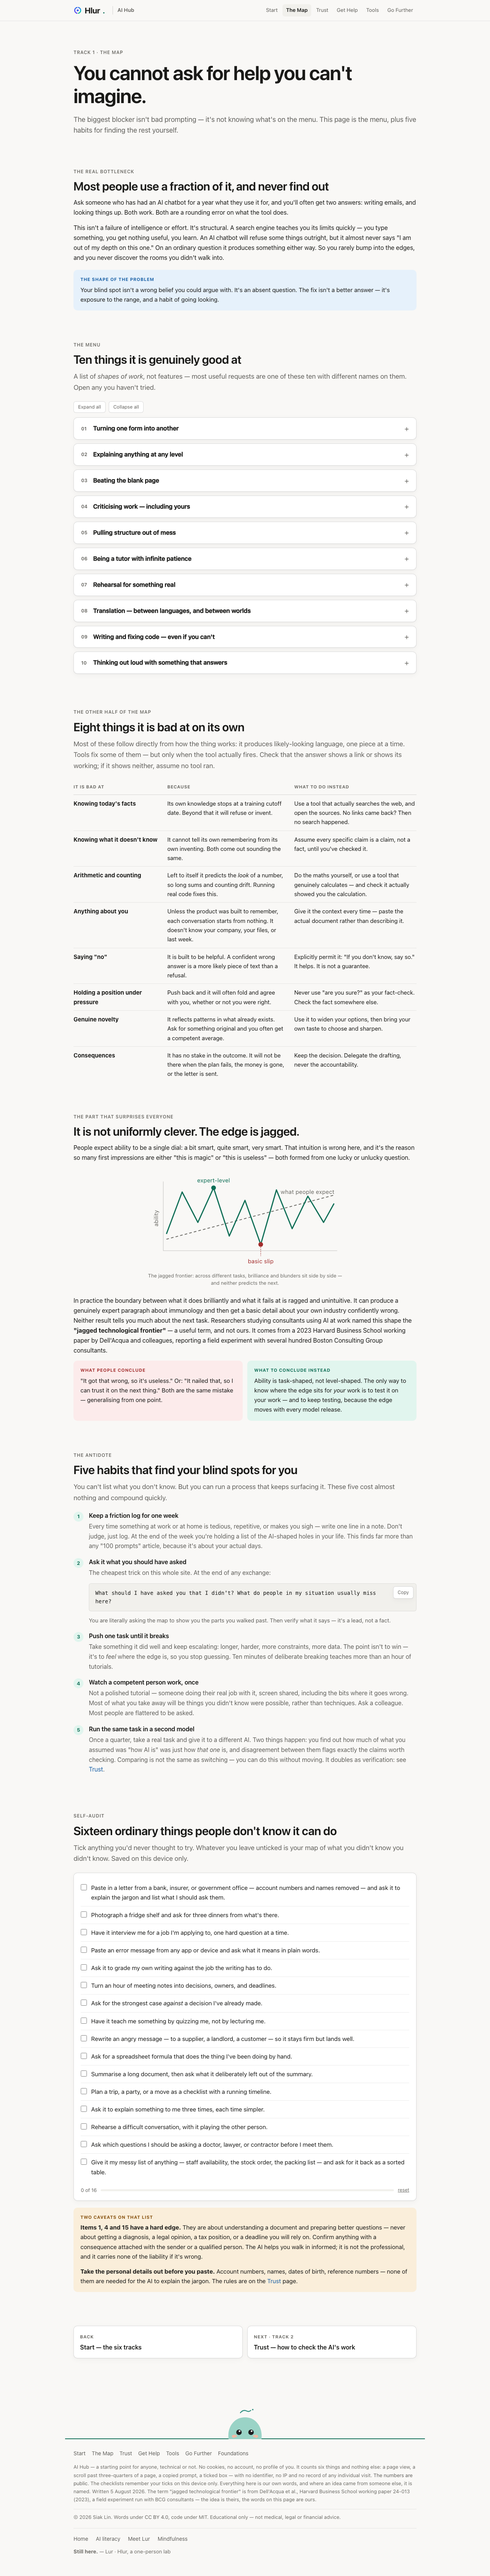
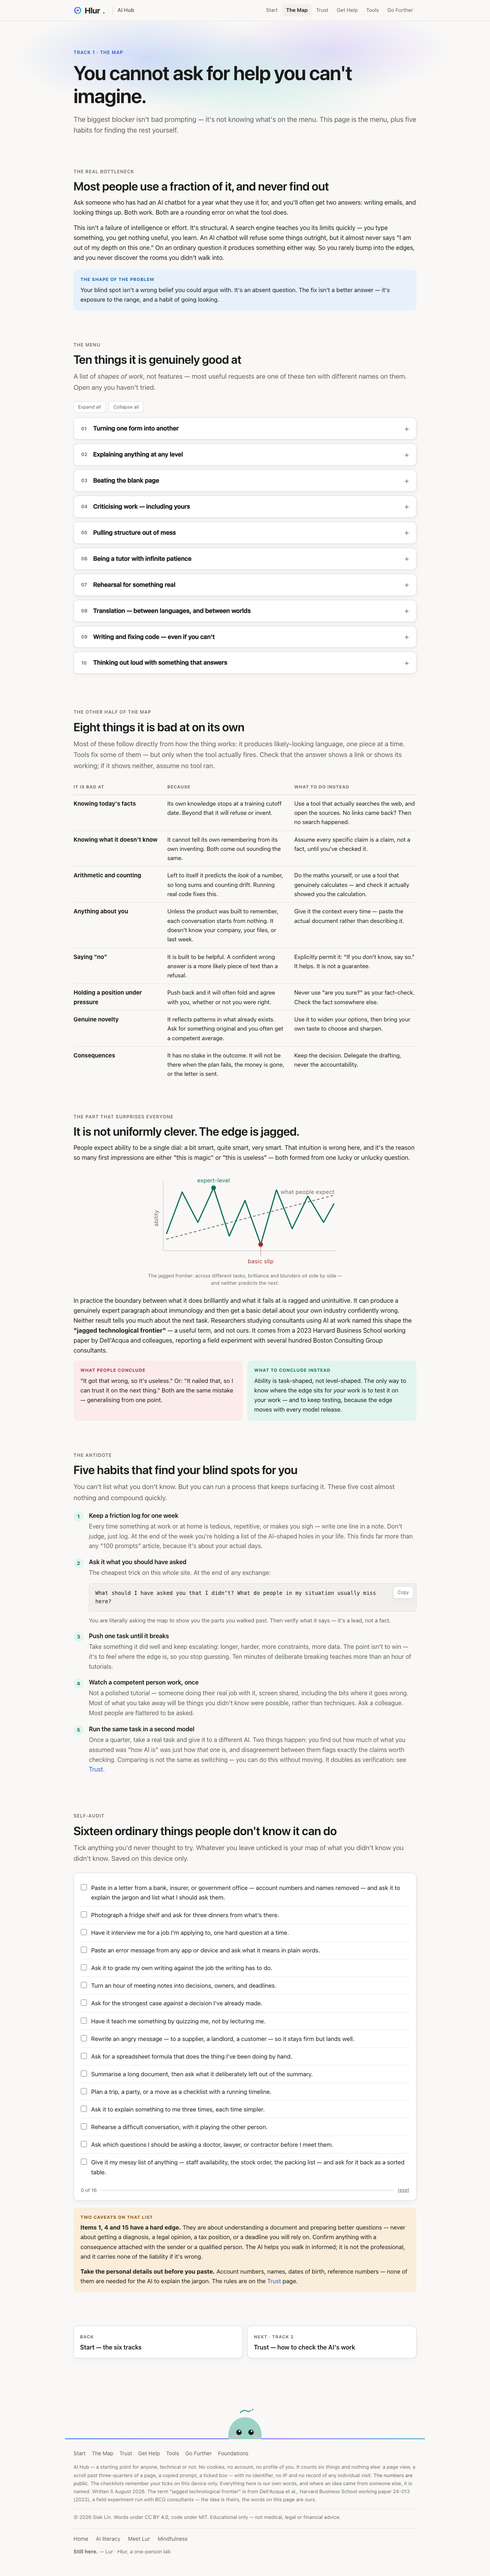
Wear the mark: /hub adopts the identity /baseline already carries
The two sub-sites sat on one domain with different accents — /baseline built on
the Hlur mark's electric blue -> violet -> teal, /hub on a green of its own.
Same tokens now, so they read as one site.

  --accent  #285bd9 / #7ba1ff   the solid form, and the one that does the work
  --g1/2/3  the mark's three stops, per theme
  --grad    display only
  --grad-text  the AA-safe pair for type
  --teal    site chrome, shared with the hlur.ai wordmark

--accent takes the primary button, links, focus, the track and pager hovers,
the section numbers. --grad is spent on four non-text things: the checklist
fill, the active swipe dot, the rule above the footer, and a soft glow behind
the hero. The page eyebrow is gradient-clipped with --grad-text.

GREEN IS NOW SEMANTIC ONLY — 14 uses down to 5: the "do" note, the green tag,
the tick marks, the checkbox, the badge. It had been doing two jobs, so "this
is the primary action" and "this is the safe answer" were the same colour.

Three things measured rather than assumed:

--grad MUST NOT paint text. Its teal stop is 2.35:1 on the light background,
under even the 3.0 large-text floor, so clipped type would end illegibly.
--grad-text drops the teal: 6.09:1 and 6.51:1 light, 8.2:1 dark. Two guards
hold that line — verify.js rejects --grad inside a background-clip:text rule,
and render.js now grades gradient-clipped text by its rendered STOPS instead of
reporting it as invisible, which is what it did on first run.
[…]

Changed region(s): [[0.1875, 0.0, 0.7188, 0.0625]]

diff --git a/assets/style.css b/assets/style.css
@@ -14,6 +14,25 @@
   --red: #a32d2d; --red-bg: #fcebeb;
   --amber: #854f0b; --amber-bg: #faeeda;
   --blue: #185fa5; --blue-bg: #e6f1fb;
+
+  /* ---- the mark ------------------------------------------------------------
+     The Hlur mark's identity, matching hlur.ai/baseline so the two sub-sites
+     read as one site: electric blue -> violet -> teal.
+
+     --accent is the SOLID form and does the work — links, the primary button,
+     focus. --grad is DISPLAY only and never touches text: its teal stop is
+     2.35:1 on the light background, under even the 3.0 large-text floor, so
+     gradient-clipped type would have an illegible end. --grad-text is the
+     AA-safe pair for that (no teal; 6.09:1 and 6.51:1 on light, 8.2:1 on dark).
+     --teal is site chrome, shared with the hlur.ai wordmark. */
+  --accent: #285bd9;
+  --g1: #2f6bff; --g2: #7a5cff; --g3: #12b8a6;
+  --grad: linear-gradient(115deg, var(--g1), var(--g2) 52%, var(--g3));
+  --grad-text: linear-gradient(115deg, #2456c9, #5b3bd6);
+  /* hlur.ai's own --teal-deep. Its plain --teal (#2d8e7e) is only 3.75:1 here:
+     the homepage wordmark is 33px, which clears AA as large text, but this nav
+     sets it at 18px, where the same colour fails. Same brand hue, 5.64:1. */
+  --teal: #1f6f62;
   --radius: 10px; --radius-sm: 6px;
   --shadow: 0 1px 2px rgba(0,0,0,.04), 0 4px 16px rgba(0,0,0,.04);
   /* Container matched to hlur.ai/baseline, measured in a real browser at
@@ -48,6 +67,10 @@
     --red: #f09595; --red-bg: #501313;
     --amber: #ef9f27; --amber-bg: #412402;
     --blue: #85b7eb; --blue-bg: #042c53;
+    --accent: #7ba1ff;
+    --g1: #6f97ff; --g2: #a48cff; --g3: #3fd6c4;
+    --grad-text: linear-gradient(115deg, #85b7eb, #b9a5ff);
+    --teal: #4fae9d;
     --shadow: 0 1px 2px rgba(0,0,0,.2), 0 4px 16px rgba(0,0,0,.25);
   }
 }
@@ -94,7 +117,7 @@ body {
    defaults did survive — but they are thin and low-contrast against these
    surfaces, and this site is aimed partly at older readers. */
 :focus-visible {
-  outline: 2px solid var(--blue);
+  outline: 2px solid var(--accent);
   outline-offset: 2px;
   border-radius: 3px;
 }
@@ -104,7 +127,7 @@ body {
   * { transition-duration: 0.01ms !important; animation-duration: 0.01ms !important; }
 }
 
-a { color: var(--blue); text-decoration: none; }
+a { color: var(--accent); text-decoration: none; }
 a:hover { text-decoration: underline; }
 
 /* ---------- nav ---------- */
@@ -131,7 +154,8 @@ a:hover { text-decoration: underline; }
   display: inline-flex; align-items: center; gap: 7px; flex: 0 0 auto;
 }
 .wordmark:hover { text-decoration: none; }
-.wordmark span { color: var(--green); }
+/* the dot is site chrome — teal on hlur.ai and /baseline, and it was green here */
+.wordmark span { color: var(--teal); }
 .nav-mark { width: 22px; height: 22px; flex: 0 0 auto; }
 .nav-sect {
   font-weight: 600; font-size: 13.5px; color: var(--text-sec);
@@ -170,10 +194,35 @@ a:hover { text-decoration: underline; }
 
 /* ---------- hero ---------- */
 
-.hero { padding: 72px 0 44px; }
+/* The mark's glow behind the hero — colour without clutter, and the one place
+   --grad touches a large area. Purely decorative: no text sits on it, it cannot
+   be tabbed to, and it is contained by the hero's own stacking context so it
+   can never paint over content. */
+.hero { padding: 72px 0 44px; position: relative; isolation: isolate; }
+.hero::before {
+  content: ""; position: absolute; inset: 0; z-index: -1; pointer-events: none;
+  background:
+    radial-gradient(38% 52% at 30% 28%, color-mix(in srgb, var(--g1) 20%, transparent), transparent 70%),
+    radial-gradient(34% 46% at 68% 22%, color-mix(in srgb, var(--g2) 18%, transparent), transparent 70%),
+    radial-gradient(40% 50% at 52% 46%, color-mix(in srgb, var(--g3) 14%, transparent), transparent 72%);
+}
+.hero > .wrap { position: relative; }
+
 .eyebrow {
   font-size: 12px; text-transform: uppercase; letter-spacing: 0.07em;
-  color: var(--text-ter); font-weight: 600; margin: 0 0 14px;
+  font-weight: 600; margin: 0 0 14px;
+  /* The page's identity line carries the mark. --grad-text, never --grad: this
+     is 12px type, and the display gradient's teal stop is 2.35:1 on light.
+     The solid --accent is set FIRST so a browser without background-clip:text
+     shows a readable colour rather than transparent — i.e. nothing at all. */
+  color: var(--accent);
+}
+@supports ((-webkit-background-clip: text) or (background-clip: text)) {
+  .eyebrow {
+    background: var(--grad-text);
+    -webkit-background-clip: text; background-clip: text;
+    color: transparent;
+  }
 }
 .hero h1 {
   font-size: 52px; line-height: 1.15; letter-spacing: -0.025em;
@@ -190,7 +239,7 @@ a:hover { text-decoration: underline; }
   font-size: 14.5px; font-weight: 560; border: 0.5px solid transparent;
 }
 .btn:hover { text-decoration: none; }
-.btn-primary { background: var(--green); color: var(--bg); }
+.btn-primary { background: var(--accent); color: var(--bg); }
 .btn-primary:hover { filter: brightness(1.08); }
 .btn-ghost { background: var(--surface); color: var(--text); border-color: var(--border-med); box-shadow: var(--shadow); }
 .btn-ghost:hover { background: var(--surface2); }
@@ -248,9 +297,9 @@ section > .wrap > *:last-child { margin-bottom: 0; }
   border-radius: var(--radius); padding: 16px 18px; box-shadow: var(--shadow);
   color: var(--text);
 }
-.track:hover { text-decoration: none; border-color: var(--green); }
+.track:hover { text-decoration: none; border-color: var(--accent); }
 .track .tnum {
-  font-size: 11.5px; font-weight: 700; color: var(--green);
+  font-size: 11.5px; font-weight: 700; color: var(--accent);
   letter-spacing: 0.08em; text-transform: uppercase;
 }
 .track h3 { margin: 5px 0 5px; font-size: 17.5px; }
@@ -265,7 +314,7 @@ section > .wrap > *:last-child { margin-bottom: 0; }
 }
 .hero-stat .big {
   font-size: 54px; font-weight: 300; letter-spacing: -0.03em;
-  line-height: 1; color: var(--green); display: block;
+  line-height: 1; color: var(--accent); display: block;
 }
 .hero-stat .cap { font-size: 13.5px; color: var(--text-sec); margin-top: 10px; display: block; }
 
@@ -386,7 +435,7 @@ li:last-child { margin-bottom: 0; }
   display: flex; align-items: center; gap: 10px;
 }
 .bar { flex: 1; height: 5px; background: var(--surface2); border-radius: 3px; overflow: hidden; }
-.bar > i { display: block; height: 100%; background: var(--green); width: 0; transition: width .2s; }
+.bar > i { display: block; height: 100%; background: var(--grad); width: 0; transition: width .2s; }
 .reset-btn {
   font: inherit; font-size: 12.5px; color: var(--text-ter); background: none;
   border: 0; cursor: pointer; text-decoration: underline; padding: 0;
@@ -469,7 +518,7 @@ tbody tr:last-child td { border-bottom: 0; }
   flex: 1 1 240px; background: var(--surface); border: 0.5px solid var(--border-med);
   border-radius: var(--radius); padding: 14px 16px; box-shadow: var(--shadow); color: var(--text);
 }
-.pager a:hover { text-decoration: none; border-color: var(--green); }
+.pager a:hover { text-decoration: none; border-color: var(--accent); }
 .pager .dir { font-size: 11.5px; text-transform: uppercase; letter-spacing: 0.07em; color: var(--text-ter); font-weight: 700; }
 .pager .ttl { font-weight: 600; display: block; margin-top: 3px; }
 
@@ -506,7 +555,12 @@ tbody tr:last-child td { border-bottom: 0; }
 .peek-wrap { display: flex; justify-content: center; }
 .peek-wrap svg { width: 150px; height: 81px; display: block; margin-bottom: -2px; }
 .foot { border-top: 0; }                 /* the peek's rule replaces the old hairline */
-.foot > .wrap { border-top: 2px solid var(--green); padding-top: 26px; }
+/* the mark's gradient as the rule above the footer — display use, no text */
+.foot > .wrap {
+  border-top: 2px solid transparent;
+  border-image: var(--grad) 1;
+  padding-top: 26px;
+}
 .foot-site { margin-top: 18px; padding-top: 16px; border-top: 0.5px solid var(--border); }
 .foot-site-links { display: flex; gap: 20px; flex-wrap: wrap; margin-bottom: 12px; }
 .foot-copy { font-size: 13.5px; color: var(--text-ter); margin: 0; }
@@ -646,7 +700,7 @@ tbody tr:last-child td { border-bottom: 0; }
     width: 6px; height: 6px; border-radius: 50%;
     background: var(--border-med); transition: background .18s, width .18s;
   }
-  .deck-dots span.on { width: 16px; border-radius: 3px; background: var(--green); }
+  .deck-dots span.on { width: 16px; border-radius: 3px; background: var(--grad); }
   /* ---- tables fit the screen instead of scrolling sideways -----------------
      Every table carried `min-width: 460px`, so on a 354px content column each
      one hid exactly 106px behind a horizontal scroll — six sections' worth of

diff --git a/verify.js b/verify.js
@@ -299,6 +299,21 @@ check(afterMq === '', 'style.css: rules appear AFTER the mobile media query — 
 
 check(/\.skip:focus/.test(CSS), 'style.css: the skip link never becomes visible on focus');
 check(/:focus-visible/.test(CSS), 'style.css: no visible focus indicator');
+/* GRADIENT BUDGET — identity, not wallpaper.
+   /baseline holds itself to 19 uses for the same reason: the mark's gradient
+   earns attention precisely because it is rare, and a gradient on everything is
+   just a loud page. Raising this number is a decision to be argued for in the
+   diff, the same way the phone-screen budget works. */
+const gradUses = (CSS.match(/var\(--grad\)/g) || []).length;
+check(gradUses <= 8, `style.css: the mark's gradient is used ${gradUses} times (budget 8) — identity, not wallpaper`);
+/* The display gradient must never be the paint for TEXT. Its teal stop is
+   2.35:1 on the light background, so clipped type would end illegibly; that is
+   what --grad-text exists for. render.js measures the rendered stops; this
+   catches the pairing in the source, where it is written. */
+const clipRules = all(/\{[^{}]*background-clip:\s*text[^{}]*\}/g, CSS).map((m) => m[0]);
+const badClip = clipRules.filter((r) => /var\(--grad\)/.test(r));
+check(badClip.length === 0, 'style.css: --grad is clipped to text somewhere — use --grad-text (the display gradient ends at 2.35:1)');
+
 check(/prefers-reduced-motion/.test(CSS), 'style.css: does not honour prefers-reduced-motion');
 for (const v of ['--bg', '--surface', '--text', '--green', '--red', '--amber', '--blue', '--radius']) {
   check(CSS.includes(v + ':'), `style.css: theme token ${v} not defined`);
@@ -309,7 +324,19 @@ const lightBlock = (CSS.match(/:root \{[\s\S]*?\n\}/) || [''])[0];
 const darkBlock = (CSS.match(/@media \(prefers-color-scheme: dark\) \{[\s\S]*?\n  \}/) || [''])[0];
 const tokensOf = (b) => new Set(all(/(--[a-z0-9-]+):/g, b).map((m) => m[1]));
 const lightTokens = tokensOf(lightBlock), darkTokens = tokensOf(darkBlock);
-const colourish = [...lightTokens].filter((t) => !['--radius', '--radius-sm', '--wrap', '--pad'].includes(t));
+/* A token whose value is BUILT from other tokens follows the theme on its own —
+   custom properties resolve at use time, so --grad: linear-gradient(var(--g1)…)
+   already paints the dark stops once --g1 is redefined. Verified in both themes
+   before this exemption was added; requiring it to be restated in the dark block
+   would mean maintaining the same gradient twice, which is how the two drift. */
+const composed = new Set(
+  all(/(--[a-z0-9-]+):\s*([^;]*)/g, lightBlock)
+    .filter((m) => m[2].includes('var(--'))
+    .map((m) => m[1])
+);
+const colourish = [...lightTokens].filter(
+  (t) => !['--radius', '--radius-sm', '--wrap', '--pad'].includes(t) && !composed.has(t)
+);
 for (const t of colourish) {
   check(darkTokens.has(t), `style.css: ${t} has no dark-mode value — it will render a light colour on a dark background`);
 }

diff --git a/render.js b/render.js
@@ -1036,6 +1036,29 @@ const check = (cond, msg) => { if (cond) checks++; else { fails++; console.log('
           let cum = 1;
           for (let n = e; n; n = n.parentElement) cum *= Number(getComputedStyle(n).opacity);
           fgRaw[3] *= cum;
+          /* Gradient-clipped text is painted by its BACKGROUND, so `color` is
+             transparent by design and reads as invisible here. It is not exempt:
+             judge it by its stops, and hold the WORST one to the same bar. This
+             is what stops the display gradient creeping onto type — its teal end
+             is 2.35:1 on the light background, so only the AA-safe --grad-text
+             pair can pass. */
+          const clip = st.webkitBackgroundClip || st.backgroundClip;
+          if (fgRaw[3] < 0.02 && clip === 'text') {
+            const stops = (st.backgroundImage.match(/rgba?\([^)]*\)/g) || []);
+            if (!stops.length) { bad.push(`${st.fontSize} clipped to a gradient with no readable stops "${e.innerText.slice(0, 28)}"`); return; }
+            const back = bgOf(e);
+            const size0 = parseFloat(st.fontSize), bold0 = parseInt(st.fontWeight, 10) >= 700;
+            const min0 = (size0 >= 24 || (size0 >= 18.66 && bold0)) ? 3 : 4.5;
+            let worst = Infinity, worstStop = '';
+            stops.forEach((sc) => {
+              const n = sc.match(/[\d.]+/g).map(Number);
+              const La = lum(over([n[0], n[1], n[2], n[3] === undefined ? 1 : n[3]], back)), Lb = lum(back);
+              const r = (Math.max(La, Lb) + 0.05) / (Math.min(La, Lb) + 0.05);
+              if (r < worst) { worst = r; worstStop = sc; }
+            });
+            if (worst < min0) bad.push(`${st.fontSize} gradient stop ${worstStop} ${worst.toFixed(2)}:1 <${min0} "${e.innerText.slice(0, 28)}"`);
+            return;
+          }
           if (fgRaw[3] < 0.02) { bad.push(`${st.fontSize} INVISIBLE (effective alpha ${fgRaw[3].toFixed(2)}) "${e.innerText.slice(0, 28)}"`); return; }
           const bg = bgOf(e);
           const L1 = lum(over(fgRaw, bg)), L2 = lum(bg);
